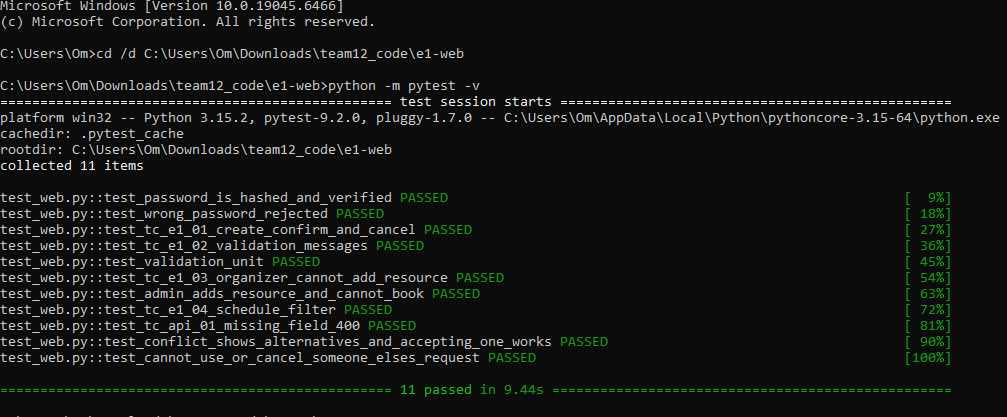
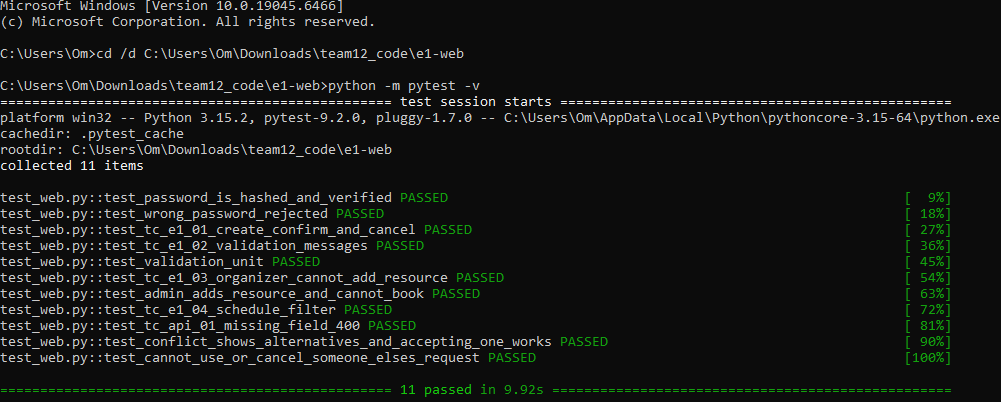
add alternatives route and tests

diff --git a/e1-web/app.py b/e1-web/app.py
@@ -3,6 +3,7 @@
 Flask web app + JSON API following Sprint 1 section 4.19:
   POST /api/requests    validate and register an event request
   POST /api/check       E3 conflict check (+ E5 alternatives when there is a clash)
+  POST /api/alternatives  E5 ranked alternatives for a request
   POST /api/confirm     E4 allocation and E2 commit (200 CONFIRMED / 409 REJECTED)
   POST /api/cancel      cancel own booking
   POST /api/resources   Admin only
@@ -170,6 +171,16 @@ def create_app(db_path=None, seed_demo=True):
         if result["status"] == "CONFLICT":
             result["alternatives"] = suggest_alternatives(conn(), req)
         return jsonify(result)
+
+    @app.post("/api/alternatives")
+    @needs("create_event")
+    def api_alternatives():
+        data = request.get_json(silent=True) or {}
+        req, err = own_request(data)
+        if err:
+            return err
+        return jsonify(request_id=data.get("requestId", data.get("request_id")),
+                       options=suggest_alternatives(conn(), req))
 
     @app.post("/api/confirm")
     @needs("create_event")

diff --git a/e1-web/test_web.py b/e1-web/test_web.py
@@ -128,6 +128,8 @@ def test_conflict_shows_alternatives_and_accepting_one_works(tmp_path):
     rid2, check2 = full_booking(two)
     assert check2["status"] == "CONFLICT" and check2["conflicts"][0]["type"] == "TIME"
     assert check2["alternatives"][0]["resource_id"] == "R02"
+    alt = two.post("/api/alternatives", json={"request_id": rid2}).get_json()
+    assert alt["options"][0]["resource_id"] == "R02"
     # direct confirm of the clashing room is refused (409) and alternatives come back
     refused = two.post("/api/confirm", json={"request_id": rid2})
     assert refused.status_code == 409 and refused.get_json()["alternatives"]
